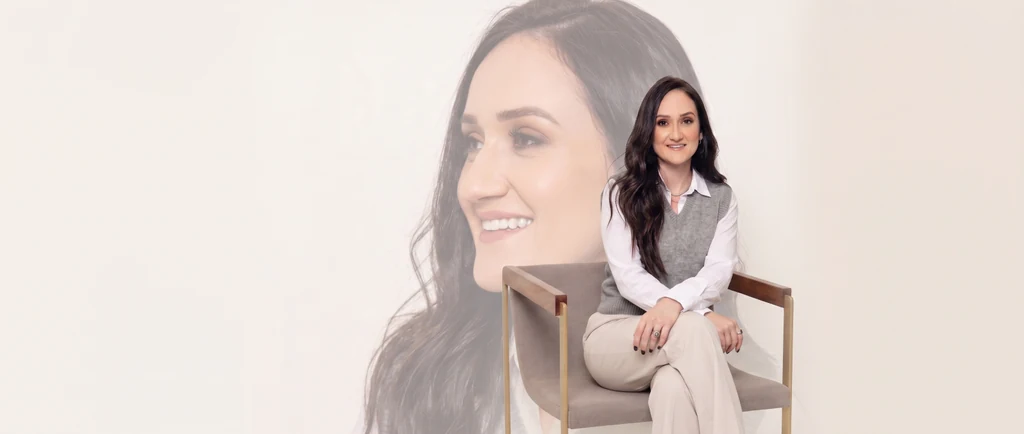
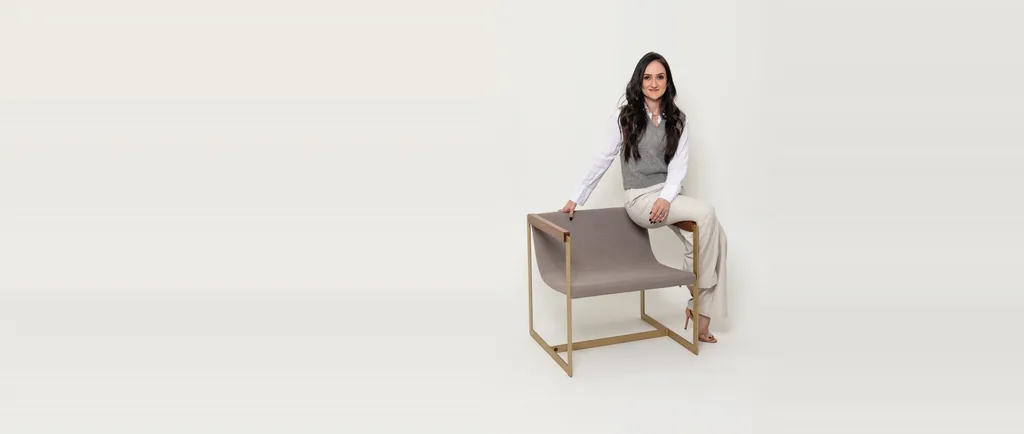
feat(hero): atualiza imagem do hero e ajusta responsividade mobile com modelo centralizada

Changed region(s): [[0.3438, 0.0, 0.7812, 1.0]]

diff --git a/src/components/Hero/styles.css b/src/components/Hero/styles.css
@@ -311,15 +311,24 @@
 		padding-top: 60px;
 	}
 
+	.hero__bg-wrapper {
+		width: 100%;
+		height: 100%;
+		top: 0;
+		left: 0;
+	}
+
 	.hero__bg-image {
-		object-position: 50% 15%;
+		object-position: 61.5% 20%;
 	}
 
 	.hero__bg-overlay {
-		background: linear-gradient(180deg,
-				rgba(12, 9, 7, 0.35) 0%,
+		background: 
+			radial-gradient(circle at 61.5% 35%, rgba(12, 9, 7, 0.45) 0%, rgba(12, 9, 7, 0.75) 70%, rgba(12, 9, 7, 0.92) 100%),
+			linear-gradient(180deg,
+				rgba(12, 9, 7, 0.50) 0%,
 				rgba(12, 9, 7, 0.65) 40%,
-				rgba(12, 9, 7, 0.90) 80%,
+				rgba(12, 9, 7, 0.88) 80%,
 				rgba(12, 9, 7, 0.98) 100%);
 	}
 
@@ -375,12 +384,25 @@
 
 @media (max-width: 768px) {
 	.hero {
-		align-items: flex-start;
+		align-items: center;
+		justify-content: center;
 		padding-top: 96px;
+	}
+
+	.hero__bg-image {
+		object-position: 61.5% 25%;
 	}
 
 	.hero__container {
 		padding: 32px 24px 48px 24px;
+		display: flex;
+		justify-content: center;
+		align-items: center;
+	}
+
+	.hero__content-box {
+		align-items: center;
+		text-align: center;
 	}
 
 	.hero__header {
